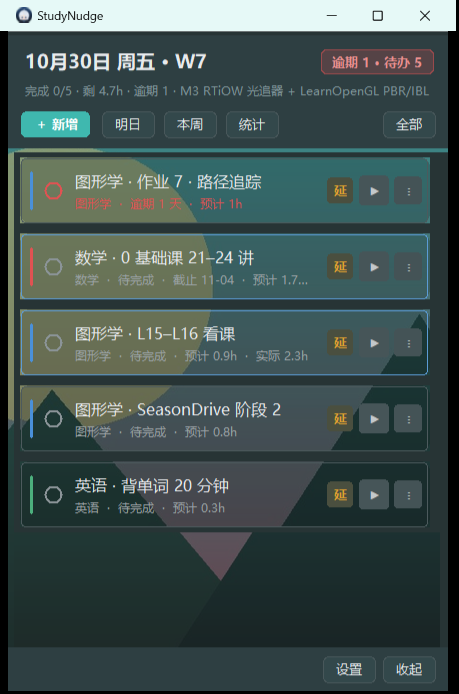
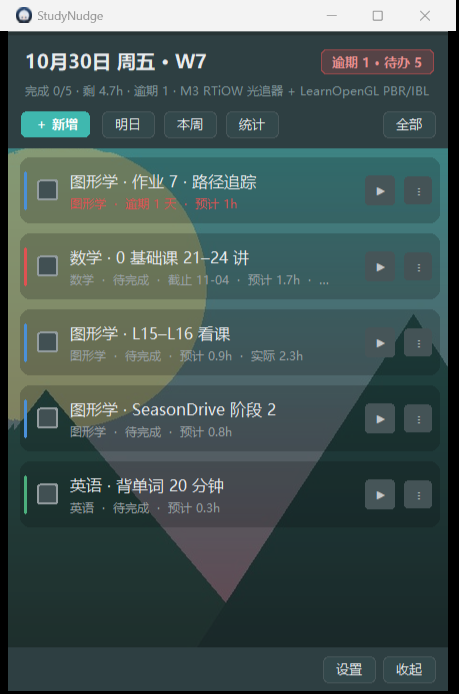
fix(ui): 卡片与背景对齐、去掉描边与右侧深色条、勾选框可点
- 行画布铺满宽度，卡片左右内缩 6px 绘制，消除左右深色边
- 间隙并入行背景图，卡片之间不再出现深色缝
- 去掉卡片描边多边形，只保留左侧学科色条
- 勾选框改为圆角方框并填充底色，内部可点击
- 去掉卡片上的「延」按钮，延期收进「⋮ → 延期…」子菜单
- 列表背景改用窗口背景图按画布偏移裁切，与卡片内背景完全对齐
- 滚动条只保留胶囊滑块，画在列表画布上（本周俯瞰同步）

diff --git a/ui.py b/ui.py
@@ -240,8 +240,6 @@ class App:
         wrap.pack(fill="both", expand=True, padx=(6, 0), pady=(4, 0))
         self.canvas = tk.Canvas(wrap, bg=BG, highlightthickness=0, bd=0)
         self.canvas.pack(side="left", fill="both", expand=True)
-        self.sbar = tk.Canvas(wrap, width=7, bg=BG, highlightthickness=0, bd=0)
-        self.sbar.pack(side="right", fill="y", padx=(0, 1))
         self.inner = tk.Frame(self.canvas, bg=BG)
         self.inner_id = self.canvas.create_window((0, 0), window=self.inner, anchor="nw")
         self.inner.bind("<Configure>", lambda e: self._apply_scroll())
@@ -651,19 +649,22 @@ class App:
             pass
 
     def _draw_thumb(self) -> None:
-        """右侧只留一个胶囊滑块，没有滚动条槽。"""
+        """右侧只有一个胶囊滑块，直接画在列表 canvas 上（无轨道、不遮背景）。"""
         try:
-            self.sbar.delete("all")
-            vh = self.canvas.winfo_height()
+            c = self.canvas
+            c.delete("thumb")
+            vh = c.winfo_height()
             ch = self.inner.winfo_reqheight()
-            if ch <= vh + 2 or vh < 30:
+            if ch <= vh + 2 or vh < 40:
                 return
-            h = max(26, int(vh * vh / ch))
+            h = max(28, int(vh * vh / ch))
             mx = max(1, ch - vh)
             pos = max(0.0, min(1.0, self._sy / mx))
             y = int((vh - h) * pos)
-            self.sbar.create_line(3.5, y + 5, 3.5, y + h - 5,
-                                  width=4, capstyle="round", fill=ACCENT)
+            x = c.winfo_width() - 4
+            c.create_line(x, y + 6, x, y + h - 6, width=4,
+                          capstyle="round", fill=ACCENT, tags="thumb")
+            c.tag_raise("thumb")
         except Exception:
             pass
 
@@ -724,15 +725,20 @@ class App:
                 cv._ph0 = ph0
                 cv.itemconfigure(cv._bg0, image=ph0)
 
-                card = src.crop((0, y0, min(ww, src.width), y1))
-                if card.size != (ww, hh):
-                    card = card.resize((ww, hh))
-                mask = masks.get((ww, hh))
+                gap = getattr(cv, "_GAP", 5)
+                mx = getattr(cv, "_MX", 6)
+                cw = max(40, getattr(cv, "_CW", ww - mx * 2))
+                ch = max(8, hh - gap * 2)
+                cy0 = max(0, min(src.height - 1, y0 + gap))
+                card = src.crop((mx, cy0, min(mx + cw, src.width), cy0 + ch))
+                if card.size != (cw, ch):
+                    card = card.resize((cw, ch))
+                mask = masks.get((cw, ch))
                 if mask is None:
-                    mask = Image.new("L", (ww, hh), 0)
+                    mask = Image.new("L", (cw, ch), 0)
                     ImageDraw.Draw(mask).rounded_rectangle(
-                        [0, 0, ww - 1, hh - 1], radius=10, fill=255)
-                    masks[(ww, hh)] = mask
+                        [0, 0, cw - 1, ch - 1], radius=10, fill=255)
+                    masks[(cw, ch)] = mask
                 card = card.convert("RGBA")
                 card.putalpha(mask)
                 ph1 = ImageTk.PhotoImage(card)
@@ -793,7 +799,7 @@ class App:
         return "  ·  ".join(bits)
 
     def _row(self, t: dict, done: bool, day=None) -> None:
-        """一行 = 圆角半透明卡片：第一行标题 + 操作，第二行状态与元信息。"""
+        """一行 = 圆角半透明卡片；行高含上下间隙，间隙里也铺背景图（消除深色缝）。"""
         day = day or self.view_day
         _name, color = st.LINES.get(t.get("line"), st.LINES["other"])
         step = int(t.get("step") or 0)
@@ -814,39 +820,49 @@ class App:
 
         ft = tkfont.Font(font=(FONT, 11 + SZ, "overstrike" if done else "normal"))
         fm = tkfont.Font(font=(FONT, 8 + SZ))
-        W = max(240, (self.canvas.winfo_width() or 380) - 18)
-        tw = max(80, W - 58 - 112)
+        W = max(240, (self.canvas.winfo_width() or 380) - 2)   # 画布宽（铺满）
+        MX = 6                                                  # 卡片左右内缩
+        CW = W - MX * 2
+        tw = max(80, CW - 58 - 96)
         title = self._fit_text(self._title_for(t, day), ft, tw)
-        meta = self._fit_text(self._meta_text(t, done, day), fm, tw)   # 单行截断，避免被卡片底边裁掉
+        meta = self._fit_text(self._meta_text(t, done, day), fm, tw)
         th_ = ft.metrics("linespace")
         mh = fm.metrics("linespace")
-        H = 13 + th_ + 3 + mh + 12
 
-        cv = tk.Canvas(self.inner, height=H, bg=BG2, highlightthickness=0, bd=0, takefocus=0)
-        cv.pack(fill="x", pady=5, padx=(6, 10))
+        GAP = 5
+        H = 13 + th_ + 3 + mh + 12          # 卡片本体
+        CH = H + GAP * 2                     # 行画布（含上下间隙）
+        cv = tk.Canvas(self.inner, height=CH, bg=BG, highlightthickness=0, bd=0, takefocus=0)
+        cv.pack(fill="x", padx=0)
+        cv._H, cv._GAP, cv._MX, cv._CW = H, GAP, MX, CW
         cv._base, cv._edge, cv._deferred, cv._task = base, edge, deferred, t
         self._row_cvs.append(cv)
         if running:
             self._timer_cv = cv
 
-        cv._bg0 = cv.create_image(0, 0, anchor="nw", tags="bgbg")
-        cv._bg1 = cv.create_image(0, 0, anchor="nw", tags="card")
-        cv.create_polygon(_rr(1, 1, W - 1, H - 1, 10), smooth=True, fill="", outline=edge)
-        cv.create_line(11, 15, 11, H - 15, fill=color, width=3, capstyle="round")
+        cv._bg0 = cv.create_image(0, 0, anchor="nw", tags="bgbg")            # 整块（铺满，含间隙）
+        cv._bg1 = cv.create_image(MX, GAP, anchor="nw", tags="card")         # 卡片（内缩）
+        cv.create_line(MX + 5, GAP + 15, MX + 5, GAP + H - 15,
+                       fill=color, width=3, capstyle="round")
 
-        cy = H // 2
-        cx = 33
-        cv._cb = cv.create_oval(cx - 8, cy - 8, cx + 8, cy + 8,
-                                outline=(OK if done else (DANGER if (od or deferred)
-                                                          else th.mix(FG, BG2, 0.5))),
-                                width=2, fill=(OK if done else ""))
+        # 勾选框：圆角方框（有填充，内部可点）
+        bs = 19
+        bx0 = MX + 18
+        by0 = GAP + (H - bs) // 2
+        cv._cb = cv.create_polygon(_rr(bx0, by0, bx0 + bs, by0 + bs, 5), smooth=True,
+                                   fill=(OK if done else th.mix(BG2, FG, 0.10)),
+                                   outline=(OK if done else th.mix(FG, BG2, 0.45)),
+                                   width=2)
         if done:
-            cv.create_line(cx - 4, cy, cx - 1, cy + 4, cx + 5, cy - 4, fill="#FFFFFF", width=2)
-        ti = cv.create_text(55, 13, anchor="nw", text=title, width=tw,
+            cv.create_line(bx0 + 4, by0 + 9, bx0 + 8, by0 + 14, bx0 + 15, by0 + 4,
+                           fill="#FFFFFF", width=2)
+        ti = cv.create_text(MX + 50, GAP + 13, anchor="nw", text=title, width=tw,
                             fill=(th.mix(FG, BG2, 0.45) if done else FG), font=ft, justify="left")
-        cv._meta_id = cv.create_text(55, 13 + th_ + 4, anchor="nw", text=meta, width=tw,
+        cv._meta_id = cv.create_text(MX + 50, GAP + 13 + th_ + 4, anchor="nw", text=meta, width=tw,
                                      fill=(DANGER if (od or deferred) else th.mix(FG, BG2, 0.42)),
                                      font=fm, justify="left")
+
+        cy = GAP + H // 2
 
         def chip(x, label, fg, cmd, size=15):
             bgc = th.mix(BG2, fg, 0.16)
@@ -860,12 +876,11 @@ class App:
                     _r, fill=th.mix(BG2, fg, 0.36)))
                 cv.tag_bind(i, "<Leave>", lambda e, _r=rect: cv.itemconfigure(_r, fill=bgc))
 
-        chip(W - 20, "⋮", th.mix(FG, BG2, 0.25), lambda: self._more_menu(t, cv), size=14)
+        chip(MX + CW - 22, "⋮", th.mix(FG, BG2, 0.25), lambda: self._more_menu(t, cv), size=14)
         if not done:
-            chip(W - 54, "■" if running else "▶",
+            chip(MX + CW - 60, "■" if running else "▶",
                  (DANGER if running else th.mix(FG, BG2, 0.2)),
                  lambda: self.toggle_timer(t), size=15)
-            chip(W - 88, "延", "#E0A030", lambda: self._defer_menu(t, cv), size=13)
 
         for i in (cv._cb, ti):
             cv.tag_bind(i, "<Button-1>", lambda e, tt=t: self.toggle(tt))
@@ -939,9 +954,7 @@ class App:
         x, y = self._menu_at(cv)
         self._popup([
             ("编辑任务", lambda: self.edit_task(t), None),
-            ("延期到明天", lambda: self._defer_to(t, 1), None),
-            ("延期到后天", lambda: self._defer_to(t, 2), None),
-            ("延期到下周", lambda: self._defer_to(t, 7), None),
+            ("延期…", lambda: self._defer_menu(t, cv), None),
             ("删除任务", lambda: self._delete_task(t), DANGER),
         ], x, y)
 
@@ -1531,7 +1544,17 @@ class App:
             if c2 is not None:
                 cw = max(200, c2.winfo_width() or w)
                 ch = max(200, c2.winfo_height() or h)
-                self._bg_img2 = ImageTk.PhotoImage(th.compose_bg(photo, (cw, ch), accent, alpha))
+                # 用同一张窗口背景图裁出列表区那一条，保证与外面完全对齐
+                cy = 0
+                try:
+                    cy = max(0, c2.winfo_rooty() - self.root.winfo_rooty())
+                except Exception:
+                    cy = 0
+                y0 = min(cy, max(0, img.height - 1))
+                crop = img.crop((0, y0, min(cw, img.width), min(y0 + ch, img.height)))
+                if crop.size != (cw, ch):
+                    crop = crop.resize((cw, ch))
+                self._bg_img2 = ImageTk.PhotoImage(crop)
                 c2.delete("bgimg")
                 c2.create_image(0, 0, anchor="nw", image=self._bg_img2, tags="bgimg")
                 c2.tag_lower("bgimg")
@@ -1817,25 +1840,25 @@ class App:
         wrap = tk.Frame(pad, bg=BG)
         wrap.pack(fill="both", expand=True)
         canvas = tk.Canvas(wrap, bg=BG, highlightthickness=0, bd=0)
-        sbar = tk.Canvas(wrap, width=7, bg=BG, highlightthickness=0, bd=0)
         body = tk.Frame(canvas, bg=BG)
         bid = canvas.create_window((0, 0), window=body, anchor="nw")
         def _sync(first, last):
             try:
-                sbar.delete("all")
-                vh = sbar.winfo_height()
+                canvas.delete("thumb")
+                vh = canvas.winfo_height()
                 f, l = float(first), float(last)
                 if l - f >= 0.999 or vh < 30:
                     return
                 h = max(24, int(vh * (l - f)))
                 y = int((vh - h) * (f / max(1e-6, 1 - (l - f))))
-                sbar.create_line(3.5, y + 4, 3.5, y + h - 4, width=4,
-                                 capstyle="round", fill=ACCENT)
+                canvas.create_line(canvas.winfo_width() - 4, y + 6,
+                                   canvas.winfo_width() - 4, y + h - 6,
+                                   width=4, capstyle="round", fill=ACCENT, tags="thumb")
+                canvas.tag_raise("thumb")
             except Exception:
                 pass
         canvas.configure(yscrollcommand=_sync)
         canvas.pack(side="left", fill="both", expand=True)
-        sbar.pack(side="right", fill="y")
         d.bind("<MouseWheel>", lambda e: canvas.yview_scroll(int(-e.delta / 120), "units"))
         body.bind("<Configure>",
                   lambda e: canvas.configure(scrollregion=canvas.bbox("all")))
